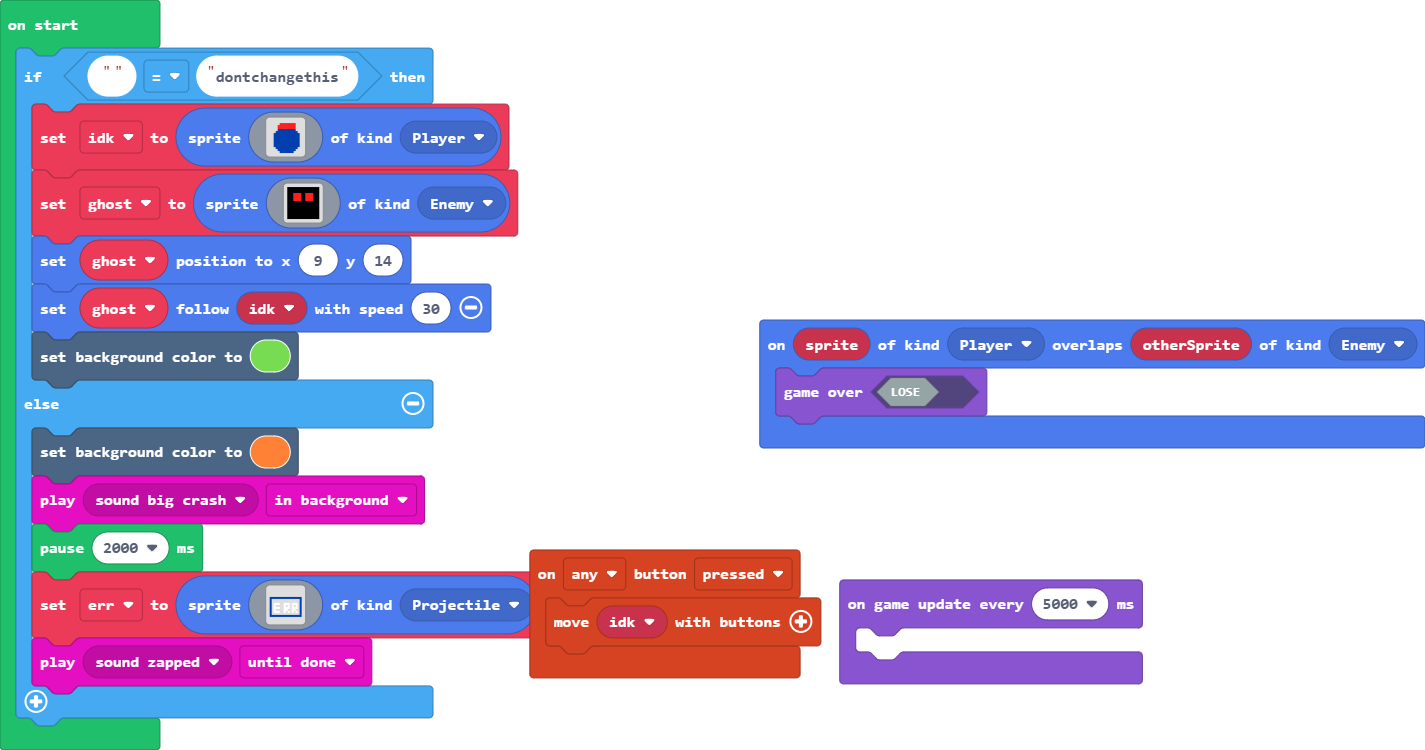
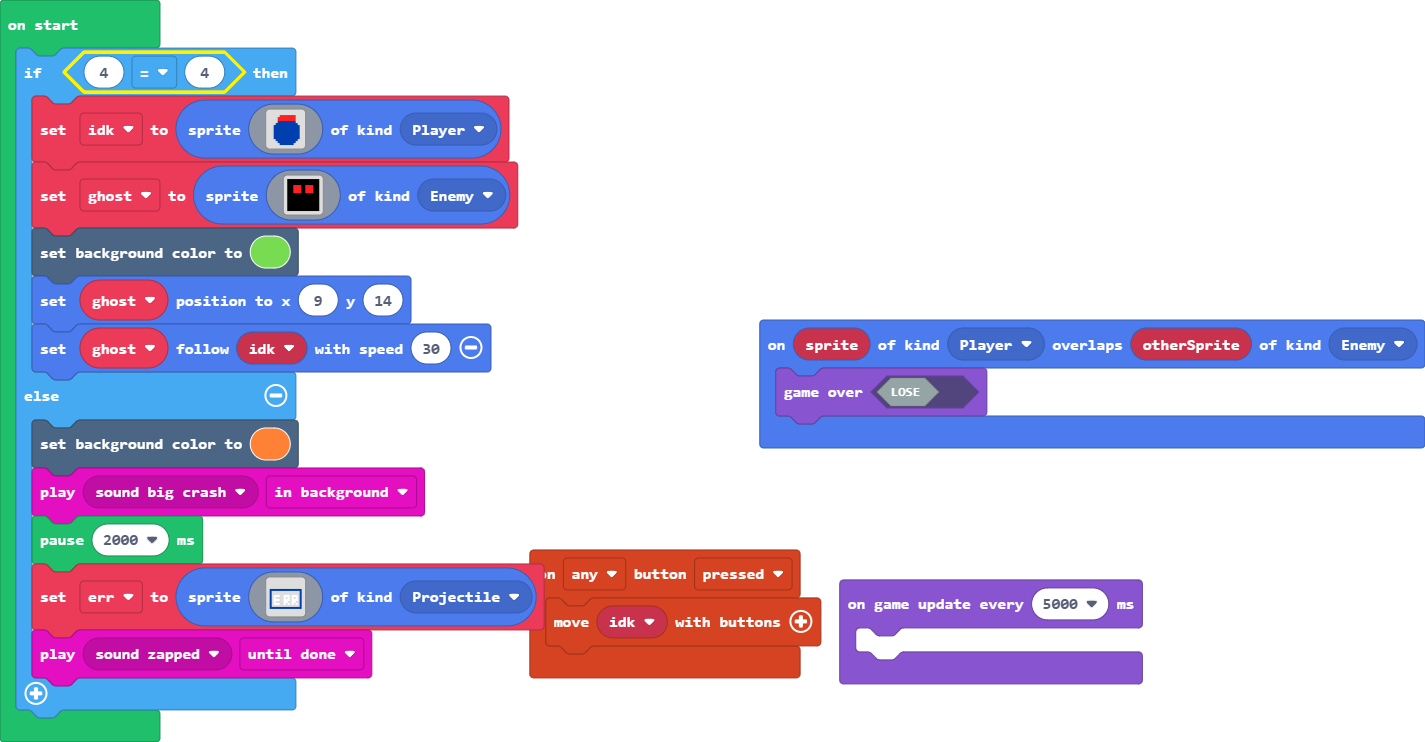
Update main.blocks, main.ts

Changed region(s): [[0.0, 0.062, 0.8028, 0.9609], [0.5249, 0.403, 1.0, 0.6199]]

diff --git a/main.ts b/main.ts
@@ -7,7 +7,7 @@ sprites.onOverlap(SpriteKind.Player, SpriteKind.Enemy, function (sprite, otherSp
 let err: Sprite = null
 let ghost: Sprite = null
 let idk: Sprite = null
-if (("" as any) == ("dontchangethis" as any)) {
+if (4 == 4) {
     idk = sprites.create(img`
         . . . . . . . . . . . . . . . . 
         . . . . . 2 2 2 2 2 2 2 2 . . . 
@@ -44,9 +44,9 @@ if (("" as any) == ("dontchangethis" as any)) {
         f f f f f f f f f f f f f f f f 
         f f f f f f f f f f f f f f f f 
         `, SpriteKind.Enemy)
+    scene.setBackgroundColor(7)
     ghost.setPosition(9, 14)
     ghost.follow(idk, 30)
-    scene.setBackgroundColor(7)
 } else {
     scene.setBackgroundColor(4)
     music.play(music.melodyPlayable(music.bigCrash), music.PlaybackMode.InBackground)
